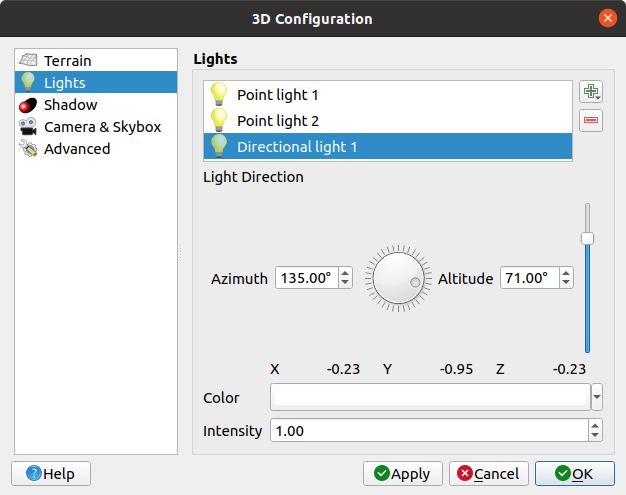
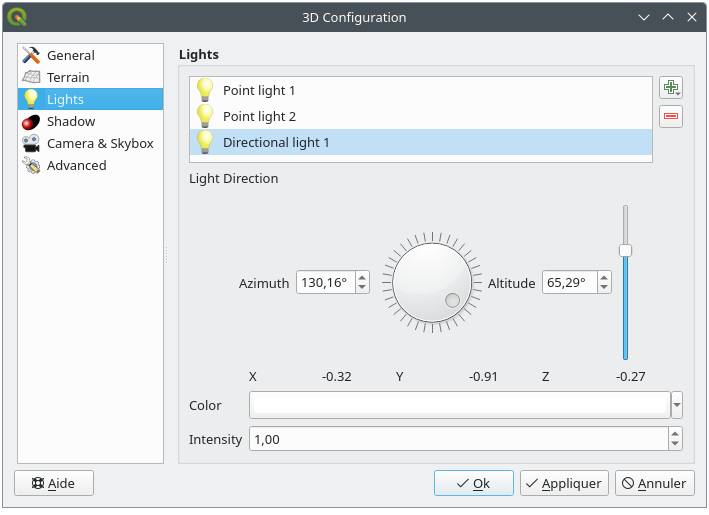
Update 3D Map view configuration screenshots

Changed region(s): [[0.0, 0.0, 1.0, 1.0]]

diff --git a/docs/user_manual/map_views/3d_map_view.rst b/docs/user_manual/map_views/3d_map_view.rst
@@ -81,14 +81,6 @@ To do so, expand the |options| :sup:`Options` menu at the top of
 the 3D canvas panel and press the |options| :menuselection:`Configure` button
 to open the :guilabel:`3D configuration` window.
 
-.. _figure_3dmap_config:
-
-.. figure:: img/3dmapconfiguration.png
-   :align: center
-
-   The 3D Map Configuration dialog
-
-
 In the 3D Configuration window there are various options to
 fine-tune the 3D scene:
 
@@ -96,6 +88,13 @@ fine-tune the 3D scene:
 
 General
 -------
+
+.. _figure_3dmap_configgeneral:
+
+.. figure:: img/3dmapconfiguration_general.png
+   :align: center
+
+   The 3D Map General Configuration dialog
 
 Under the |general| :guilabel:`General` tab, you can:
 
@@ -114,6 +113,13 @@ Under the |general| :guilabel:`General` tab, you can:
 
 Terrain
 -------
+
+.. _figure_3dmap_configterrain:
+
+.. figure:: img/3dmapconfiguration_terrain.png
+   :align: center
+
+   The 3D Map Terrain Configuration dialog
 
 * :guilabel:`Terrain`: Before diving into the details, it is worth
   noting that the terrain in a 3D view is represented by a hierarchy of
